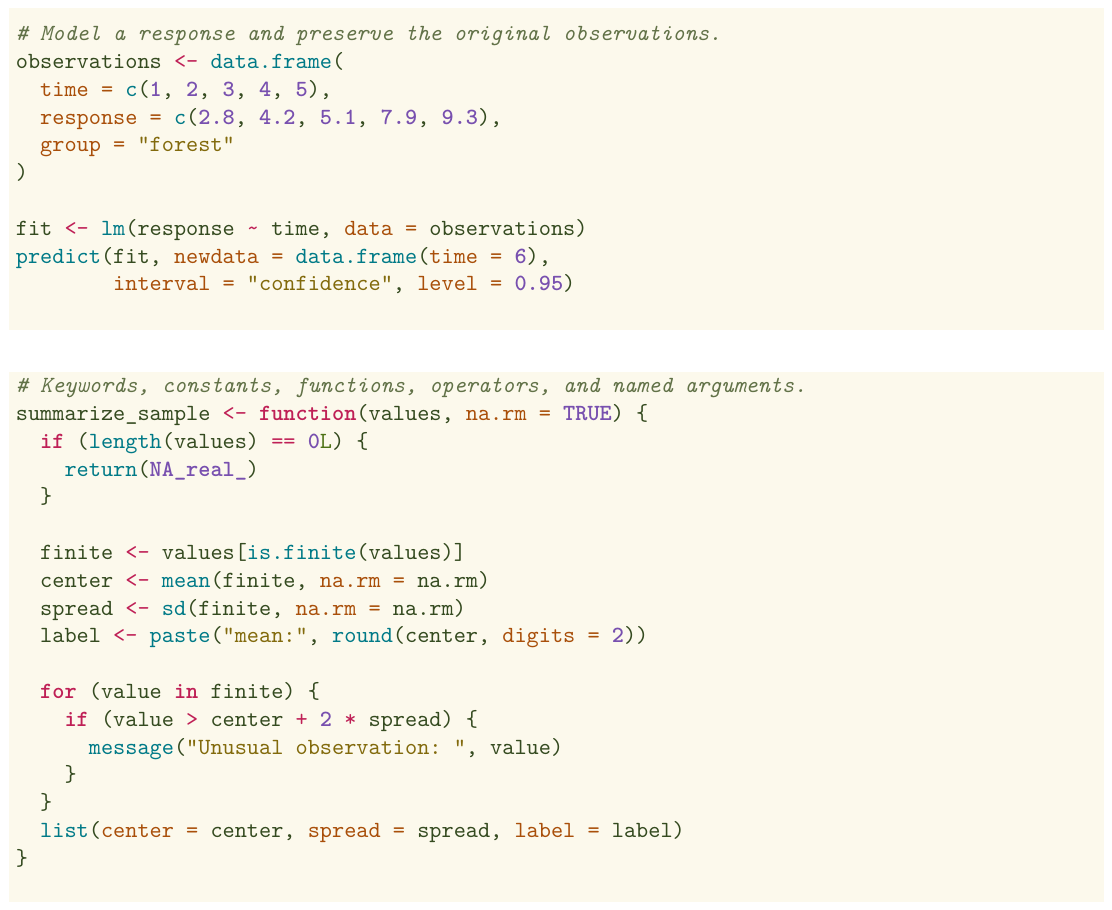
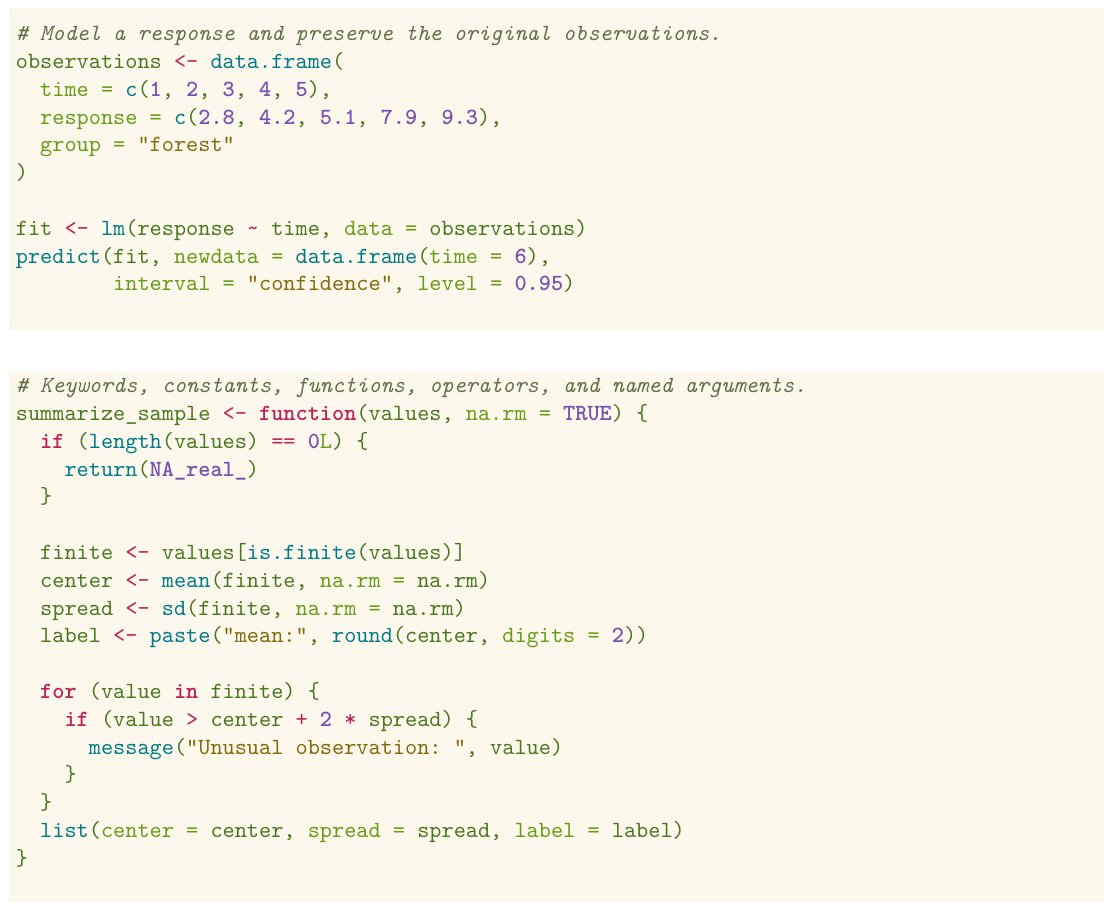
Brighten green accents in R syntax highlighting

diff --git a/lib/config.tex b/lib/config.tex
@@ -24,15 +24,15 @@
 \definecolor{light}{HTML}{e1f0c7}
 
 % Code chunk styling: Hate of Nature Light
-% Darker versions of the theme accents for the existing warm background.
-\definecolor{codeforeground}{HTML}{354B20}
+% Vivid green accents and deeper companion colors on the warm background.
+\definecolor{codeforeground}{HTML}{4B7620}
 \definecolor{codecomment}{HTML}{627248}
 \definecolor{codepink}{HTML}{BF2056}
 \definecolor{codegold}{HTML}{826A0C}
 \definecolor{codeorange}{HTML}{A94F0A}
 \definecolor{codepurple}{HTML}{7850AF}
 \definecolor{codecyan}{HTML}{007A87}
-\definecolor{codegreen}{HTML}{4D7215}
+\definecolor{codegreen}{HTML}{679B19}
 
 \makeatletter
 \AtBeginDocument{%
@@ -43,7 +43,7 @@
     }%
   }%
   \@ifundefined{NormalTok}{}{\renewcommand{\NormalTok}[1]{\textcolor{codeforeground}{#1}}}%
-  \@ifundefined{KeywordTok}{}{\renewcommand{\KeywordTok}[1]{\textcolor{codepink}{\textbf{#1}}}}%
+  \@ifundefined{KeywordTok}{}{\renewcommand{\KeywordTok}[1]{\textcolor{codegreen}{\textbf{#1}}}}%
   \@ifundefined{ControlFlowTok}{}{\renewcommand{\ControlFlowTok}[1]{\textcolor{codepink}{\textbf{#1}}}}%
   \@ifundefined{DataTypeTok}{}{\renewcommand{\DataTypeTok}[1]{\textcolor{codegreen}{#1}}}%
   \@ifundefined{FunctionTok}{}{\renewcommand{\FunctionTok}[1]{\textcolor{codecyan}{#1}}}%
@@ -51,7 +51,7 @@
   \@ifundefined{ExtensionTok}{}{\renewcommand{\ExtensionTok}[1]{\textcolor{codecyan}{#1}}}%
   \@ifundefined{ImportTok}{}{\renewcommand{\ImportTok}[1]{\textcolor{codegreen}{#1}}}%
   \@ifundefined{VariableTok}{}{\renewcommand{\VariableTok}[1]{\textcolor{codeorange}{#1}}}%
-  \@ifundefined{AttributeTok}{}{\renewcommand{\AttributeTok}[1]{\textcolor{codeorange}{#1}}}%
+  \@ifundefined{AttributeTok}{}{\renewcommand{\AttributeTok}[1]{\textcolor{codegreen}{#1}}}%
   \@ifundefined{OperatorTok}{}{\renewcommand{\OperatorTok}[1]{\textcolor{codepink}{#1}}}%
   \@ifundefined{OtherTok}{}{\renewcommand{\OtherTok}[1]{\textcolor{codepink}{#1}}}%
   \@ifundefined{SpecialCharTok}{}{\renewcommand{\SpecialCharTok}[1]{\textcolor{codepink}{#1}}}%

diff --git a/README.md b/README.md
@@ -80,21 +80,23 @@ Zed users can run the `Knit Current Rmd` task. VS Code users can run the `Knit` 
 - Section formatting.
 - Hate of Nature Light syntax highlighting for code chunks.
 
-The code chunks use a light adaptation of Hate of Nature, with darker versions of its green, pink, yellow, orange, violet, and cyan accents. The existing warm background (`#FCF9EC`) and footnote-sized code are preserved. Code colors are separate from the document's other color definitions.
+The code chunks use a light adaptation of Hate of Nature, with vivid leaf green and deeper pink, yellow, orange, violet, and cyan accents. The existing warm background (`#FCF9EC`) and footnote-sized code are preserved. Code colors are separate from the document's other color definitions.
 
 | Syntax role | Color |
 |---|---|
-| Plain code | Olive `#354B20` |
+| Plain code | Grass green `#4B7620` |
 | Comments and documentation | Moss `#627248`, italic |
-| Keywords and control flow | Pink `#BF2056`, bold |
+| Keywords | Bright leaf green `#679B19`, bold |
+| Control flow | Pink `#BF2056`, bold |
 | Operators, assignment, and special characters | Pink `#BF2056` |
 | Strings and characters | Ochre `#826A0C` |
-| Variables and named arguments | Burnt orange `#A94F0A` |
+| Variables | Burnt orange `#A94F0A` |
+| Named arguments | Bright leaf green `#679B19` |
 | Numbers and constants | Violet `#7850AF`, bold |
 | Functions | Cyan `#007A87` |
-| Built-ins, types, and imports | Leaf green `#4D7215` |
+| Built-ins, types, and imports | Bright leaf green `#679B19` |
 
-Pandoc's R tokenizer determines each token category; identifiers it classifies as plain code use olive. Every text color has at least 4.5:1 contrast against the chunk background.
+Pandoc's R tokenizer determines each token category; identifiers it classifies as plain code use grass green. Brighter leaf green highlights keywords and named arguments.
 
 Preview rendered with the shared LaTeX configuration:
 
